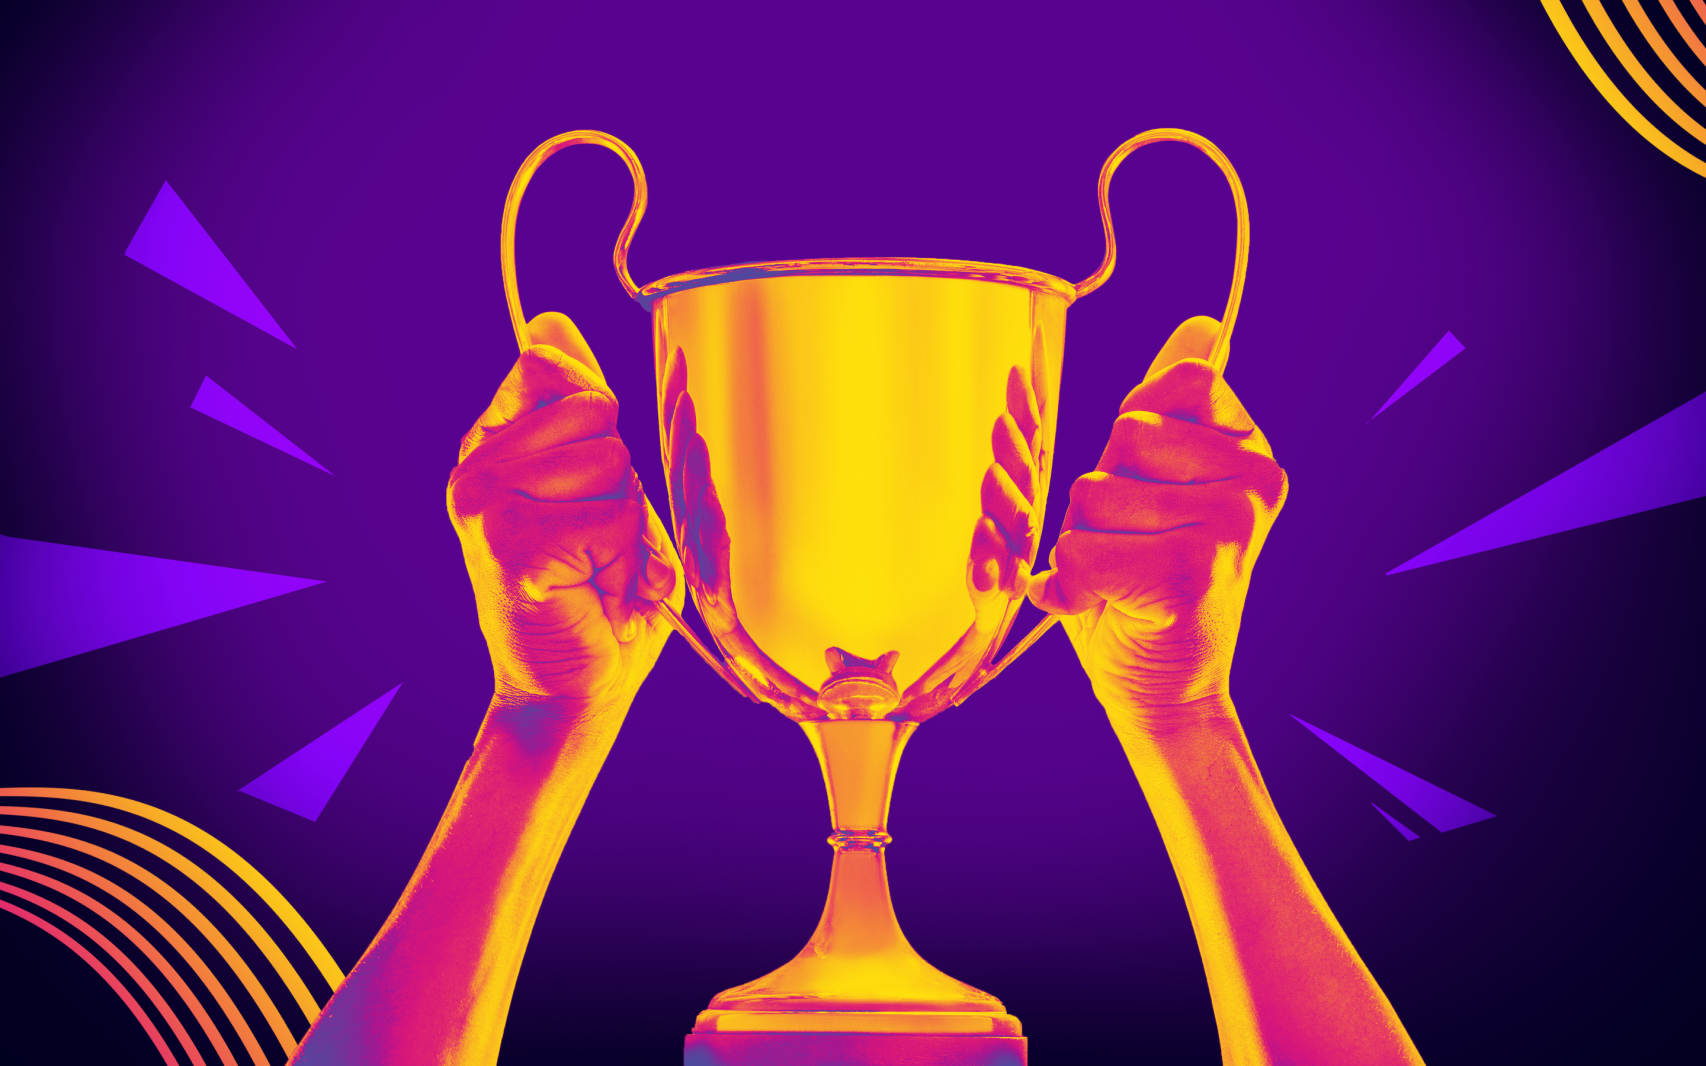
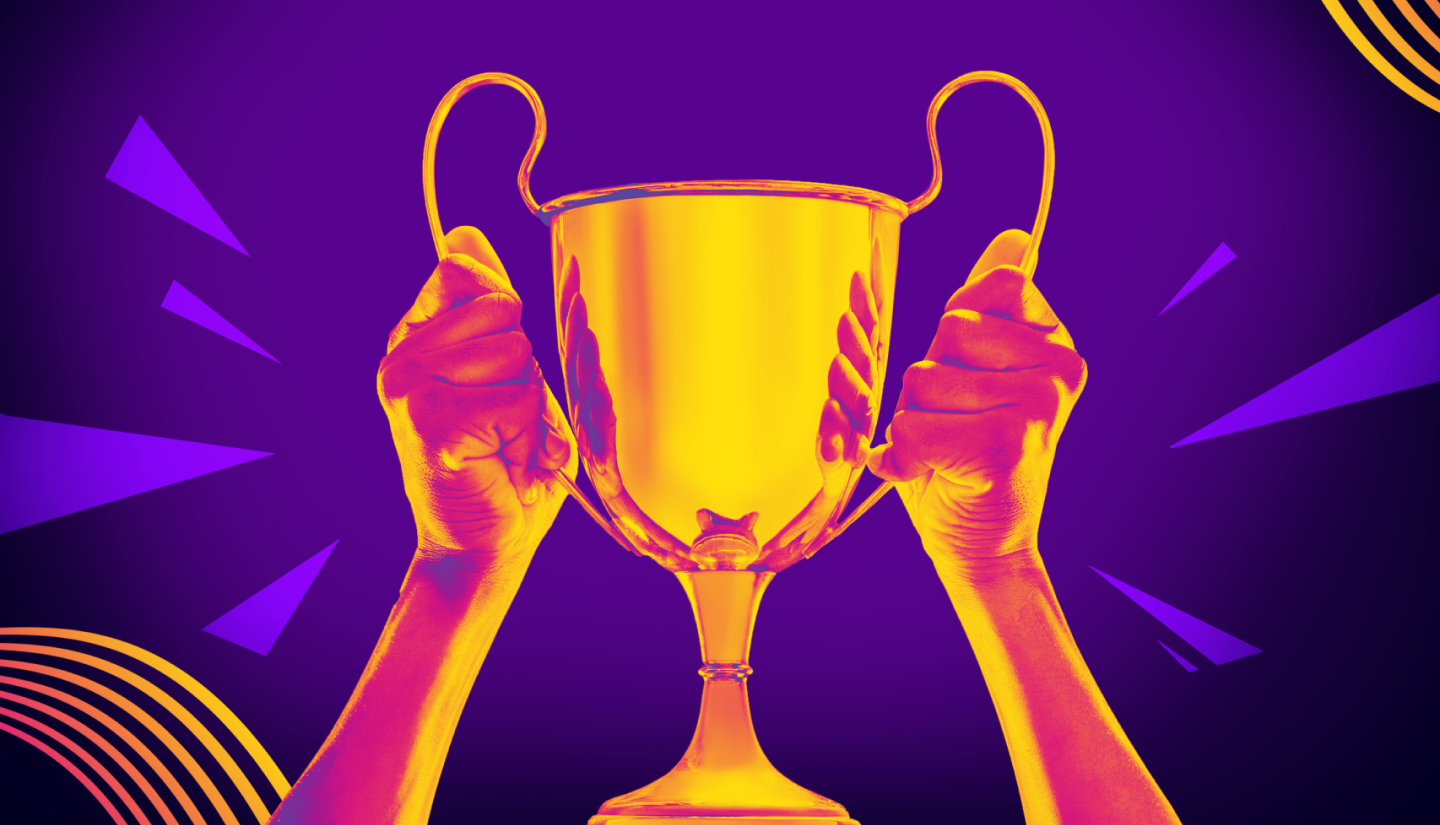
img bg

diff --git a/assets/style/home.css b/assets/style/home.css
@@ -1,12 +1,18 @@
 *{
-    margin: 0;
+    margin: 0 auto;
     padding: 0;
+    box-sizing: border-box;
+}
+
+html,body{
+    height: 100%;
 }
 
 .bg-image{
     width: 100%;
     height: 100%;
-    background-image: url("../assets/img/homepage_bg.png");
+    background-image: url("../img/homepage_bg.png");
     background-size: cover;
     background-position: center;
+    background-repeat: no-repeat;
 }
